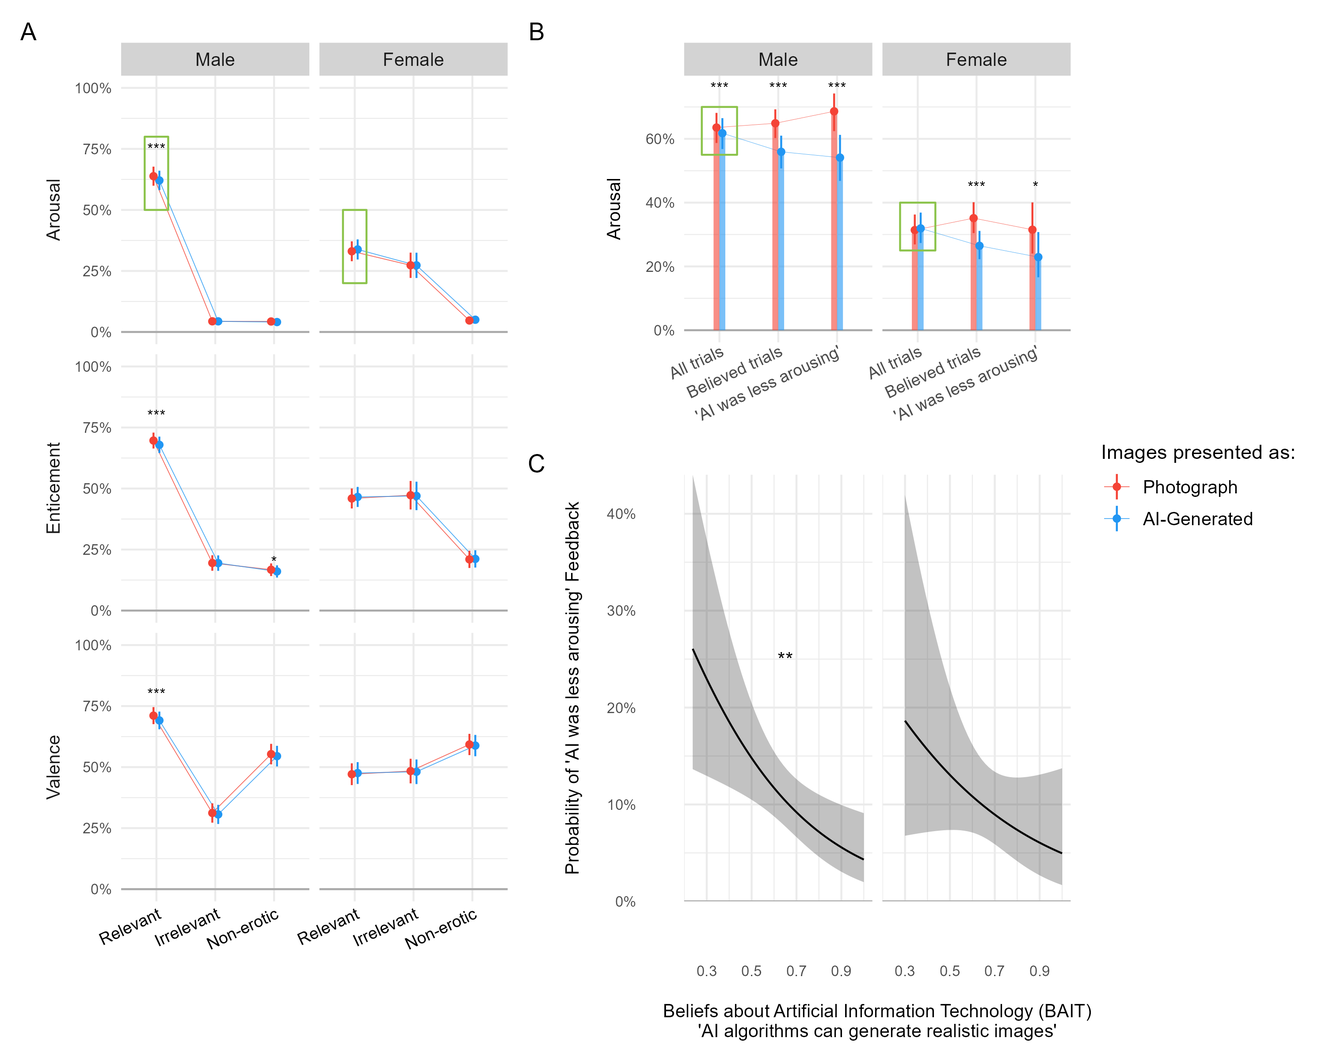
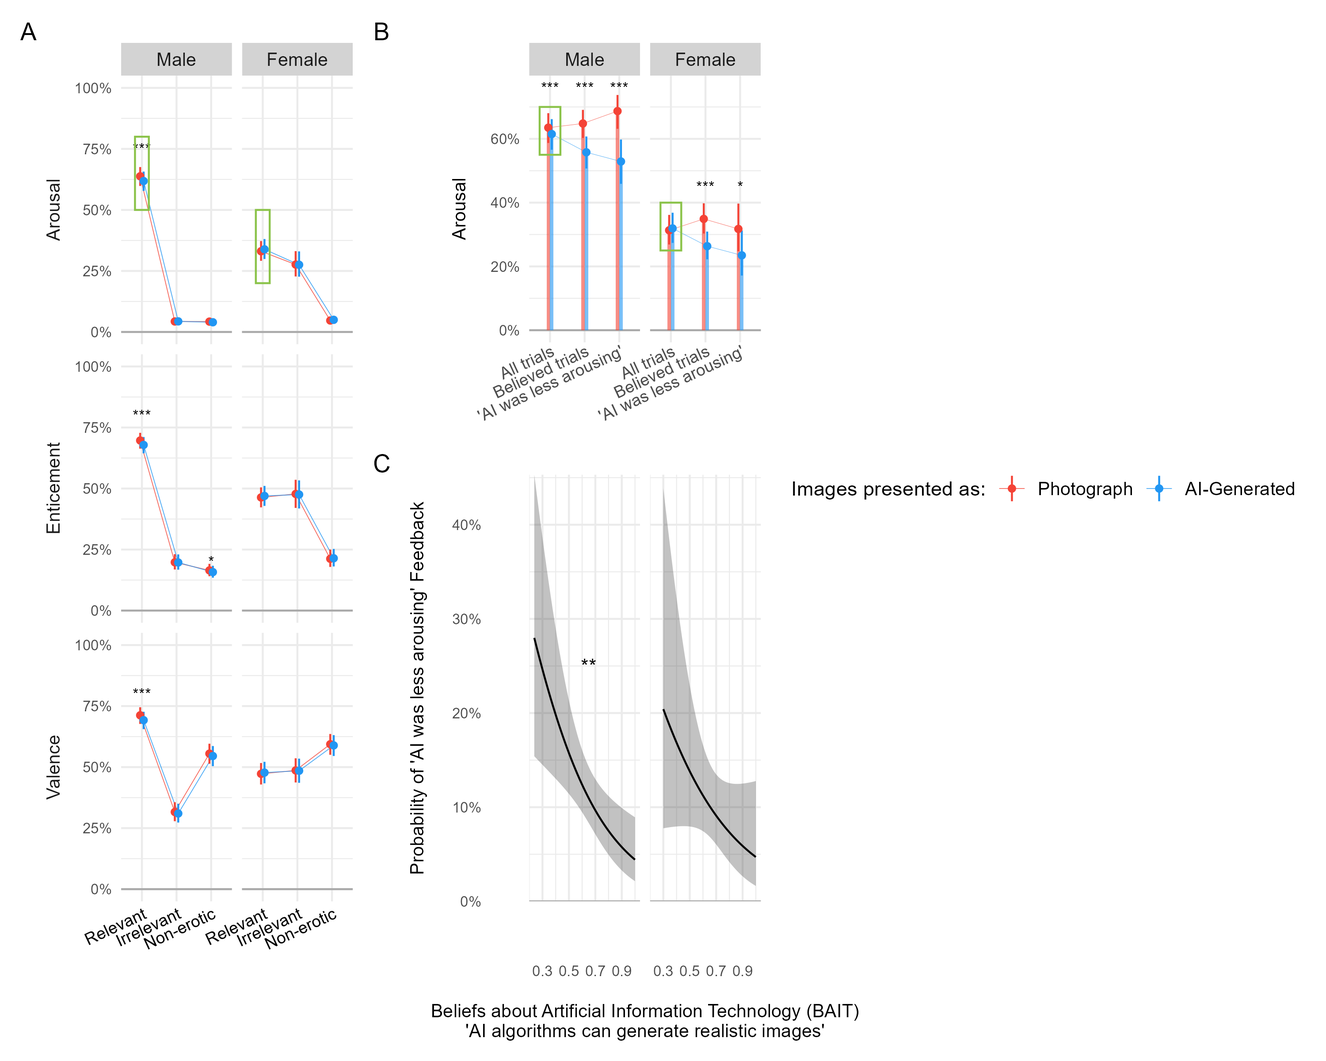
minor

diff --git a/study2/analysis/2_emotion.html b/study2/analysis/2_emotion.html
@@ -4340,13 +4340,13 @@ The 2 principal components accounted for 94.67% of the total variance of the ori
 <details class="code-fold">
 <summary>Code</summary>
 <div class="sourceCode cell-code" id="cb66"><pre class="sourceCode r code-with-copy"><code class="sourceCode r"><span id="cb66-1"><a href="#cb66-1" aria-hidden="true" tabindex="-1"></a>pred1 <span class="ot">&lt;-</span> <span class="fu">rbind</span>(</span>
-<span id="cb66-2"><a href="#cb66-2" aria-hidden="true" tabindex="-1"></a>  marginaleffects<span class="sc">::</span><span class="fu">avg_predictions</span>(m_arousal, <span class="at">by=</span><span class="fu">c</span>(<span class="st">"Gender"</span>, <span class="st">"StimuliType"</span>, <span class="st">"Condition"</span>), <span class="at">newdata =</span> <span class="st">"mean"</span>, <span class="at">re.form=</span><span class="cn">NA</span>) <span class="sc">|&gt;</span></span>
+<span id="cb66-2"><a href="#cb66-2" aria-hidden="true" tabindex="-1"></a>  modelbased<span class="sc">::</span><span class="fu">estimate_means</span>(m_arousal, <span class="at">by=</span><span class="fu">c</span>(<span class="st">"Gender"</span>, <span class="st">"StimuliType"</span>, <span class="st">"Condition"</span>), <span class="at">backend =</span> <span class="st">"emmeans"</span>) <span class="sc">|&gt;</span></span>
 <span id="cb66-3"><a href="#cb66-3" aria-hidden="true" tabindex="-1"></a>  <span class="fu">as.data.frame</span>() <span class="sc">|&gt;</span> </span>
 <span id="cb66-4"><a href="#cb66-4" aria-hidden="true" tabindex="-1"></a>  <span class="fu">mutate</span>(<span class="at">Outcome=</span><span class="st">"Arousal"</span>),</span>
-<span id="cb66-5"><a href="#cb66-5" aria-hidden="true" tabindex="-1"></a>  marginaleffects<span class="sc">::</span><span class="fu">avg_predictions</span>(m_enticement, <span class="at">by=</span><span class="fu">c</span>(<span class="st">"Gender"</span>,<span class="st">"StimuliType"</span>,  <span class="st">"Condition"</span>), <span class="at">newdata =</span> <span class="st">"mean"</span>, <span class="at">re.form=</span><span class="cn">NA</span>) <span class="sc">|&gt;</span></span>
+<span id="cb66-5"><a href="#cb66-5" aria-hidden="true" tabindex="-1"></a>  modelbased<span class="sc">::</span><span class="fu">estimate_means</span>(m_enticement, <span class="at">by=</span><span class="fu">c</span>(<span class="st">"Gender"</span>,<span class="st">"StimuliType"</span>,  <span class="st">"Condition"</span>), <span class="at">backend =</span> <span class="st">"emmeans"</span>) <span class="sc">|&gt;</span></span>
 <span id="cb66-6"><a href="#cb66-6" aria-hidden="true" tabindex="-1"></a>  <span class="fu">as.data.frame</span>() <span class="sc">|&gt;</span> </span>
 <span id="cb66-7"><a href="#cb66-7" aria-hidden="true" tabindex="-1"></a>  <span class="fu">mutate</span>(<span class="at">Outcome=</span><span class="st">"Enticement"</span>),</span>
-<span id="cb66-8"><a href="#cb66-8" aria-hidden="true" tabindex="-1"></a>  marginaleffects<span class="sc">::</span><span class="fu">avg_predictions</span>(m_valence, <span class="at">by=</span><span class="fu">c</span>(<span class="st">"Gender"</span>, <span class="st">"StimuliType"</span>, <span class="st">"Condition"</span>), <span class="at">newdata =</span> <span class="st">"mean"</span>, <span class="at">re.form=</span><span class="cn">NA</span>) <span class="sc">|&gt;</span></span>
+<span id="cb66-8"><a href="#cb66-8" aria-hidden="true" tabindex="-1"></a>  modelbased<span class="sc">::</span><span class="fu">estimate_means</span>(m_valence, <span class="at">by=</span><span class="fu">c</span>(<span class="st">"Gender"</span>, <span class="st">"StimuliType"</span>, <span class="st">"Condition"</span>), <span class="at">backend =</span> <span class="st">"emmeans"</span>) <span class="sc">|&gt;</span></span>
 <span id="cb66-9"><a href="#cb66-9" aria-hidden="true" tabindex="-1"></a>  <span class="fu">as.data.frame</span>() <span class="sc">|&gt;</span> </span>
 <span id="cb66-10"><a href="#cb66-10" aria-hidden="true" tabindex="-1"></a>  <span class="fu">mutate</span>(<span class="at">Outcome=</span><span class="st">"Valence"</span>)</span>
 <span id="cb66-11"><a href="#cb66-11" aria-hidden="true" tabindex="-1"></a>)</span>
@@ -4358,43 +4358,48 @@ The 2 principal components accounted for 94.67% of the total variance of the ori
 <span id="cb66-17"><a href="#cb66-17" aria-hidden="true" tabindex="-1"></a><span class="co">#                     x=c(1.5, 1.5, 1.5, 1.5, 1.5, 1.5), </span></span>
 <span id="cb66-18"><a href="#cb66-18" aria-hidden="true" tabindex="-1"></a><span class="co">#                     y = c(0.53, 0.40, 0.6, 0.51, 0.62, 0.58))</span></span>
 <span id="cb66-19"><a href="#cb66-19" aria-hidden="true" tabindex="-1"></a></span>
-<span id="cb66-20"><a href="#cb66-20" aria-hidden="true" tabindex="-1"></a>stars1b <span class="ot">&lt;-</span> <span class="fu">data.frame</span>(<span class="at">label=</span><span class="fu">c</span>(<span class="st">"*"</span>,<span class="st">"**"</span>, <span class="st">"*"</span>,<span class="st">"*"</span>),</span>
-<span id="cb66-21"><a href="#cb66-21" aria-hidden="true" tabindex="-1"></a>                    <span class="at">Gender=</span><span class="fu">fct_relevel</span>(<span class="fu">c</span>(<span class="st">"Male"</span>, <span class="st">"Male"</span>, <span class="st">"Male"</span>,<span class="st">"Male"</span>), <span class="st">"Male"</span>),</span>
-<span id="cb66-22"><a href="#cb66-22" aria-hidden="true" tabindex="-1"></a>                    <span class="at">Outcome=</span><span class="fu">c</span>(<span class="st">"Arousal"</span>, <span class="st">"Enticement"</span>, <span class="st">"Enticement"</span>,<span class="st">"Valence"</span>),</span>
-<span id="cb66-23"><a href="#cb66-23" aria-hidden="true" tabindex="-1"></a>                    <span class="at">x=</span><span class="fu">c</span>(<span class="dv">1</span>, <span class="dv">1</span>, <span class="dv">2</span>, <span class="dv">1</span>),</span>
-<span id="cb66-24"><a href="#cb66-24" aria-hidden="true" tabindex="-1"></a>                    <span class="at">y=</span><span class="fu">c</span>(<span class="fl">0.60</span>, <span class="fl">0.65</span>, <span class="fl">0.56</span>, <span class="fl">0.68</span>))</span>
+<span id="cb66-20"><a href="#cb66-20" aria-hidden="true" tabindex="-1"></a>stars1b <span class="ot">&lt;-</span> <span class="fu">data.frame</span>(<span class="at">label=</span><span class="fu">c</span>(<span class="st">"*"</span>),</span>
+<span id="cb66-21"><a href="#cb66-21" aria-hidden="true" tabindex="-1"></a>                    <span class="at">Gender=</span><span class="fu">fct_relevel</span>(<span class="fu">c</span>(<span class="st">"Male"</span>), <span class="st">"Male"</span>),</span>
+<span id="cb66-22"><a href="#cb66-22" aria-hidden="true" tabindex="-1"></a>                    <span class="at">Outcome=</span><span class="fu">c</span>(<span class="st">"Arousal"</span>),</span>
+<span id="cb66-23"><a href="#cb66-23" aria-hidden="true" tabindex="-1"></a>                    <span class="at">x=</span><span class="dv">1</span>,</span>
+<span id="cb66-24"><a href="#cb66-24" aria-hidden="true" tabindex="-1"></a>                    <span class="at">y=</span><span class="fl">0.60</span>)</span>
 <span id="cb66-25"><a href="#cb66-25" aria-hidden="true" tabindex="-1"></a></span>
-<span id="cb66-26"><a href="#cb66-26" aria-hidden="true" tabindex="-1"></a></span>
-<span id="cb66-27"><a href="#cb66-27" aria-hidden="true" tabindex="-1"></a>p1 <span class="ot">&lt;-</span> pred1 <span class="sc">|&gt;</span></span>
-<span id="cb66-28"><a href="#cb66-28" aria-hidden="true" tabindex="-1"></a>  <span class="fu">mutate</span>(<span class="at">Gender =</span> <span class="fu">fct_relevel</span>(Gender, <span class="st">"Male"</span>, <span class="st">"Female"</span>)) <span class="sc">|&gt;</span> </span>
-<span id="cb66-29"><a href="#cb66-29" aria-hidden="true" tabindex="-1"></a>  <span class="fu">ggplot</span>(<span class="fu">aes</span>(<span class="at">x=</span>StimuliType, <span class="at">y=</span>estimate)) <span class="sc">+</span></span>
-<span id="cb66-30"><a href="#cb66-30" aria-hidden="true" tabindex="-1"></a>  <span class="fu">geom_hline</span>(<span class="at">yintercept=</span><span class="dv">0</span>, <span class="at">color=</span><span class="st">"darkgrey"</span>) <span class="sc">+</span></span>
-<span id="cb66-31"><a href="#cb66-31" aria-hidden="true" tabindex="-1"></a>  <span class="fu">geom_line</span>(<span class="fu">aes</span>(<span class="at">group=</span>Condition, <span class="at">color=</span>Condition), <span class="at">position =</span> <span class="fu">position_dodge</span>(<span class="at">width=</span><span class="fl">0.2</span>), <span class="at">alpha=</span><span class="fl">0.8</span>, <span class="at">linewidth=</span><span class="fl">0.4</span>, <span class="at">key_glyph =</span> <span class="st">"path"</span>) <span class="sc">+</span></span>
-<span id="cb66-32"><a href="#cb66-32" aria-hidden="true" tabindex="-1"></a>  <span class="fu">geom_pointrange</span>(<span class="fu">aes</span>(<span class="at">ymin =</span> conf.low, <span class="at">ymax=</span>conf.high, <span class="at">color=</span>Condition), <span class="at">position =</span> <span class="fu">position_dodge</span>(<span class="at">width=</span><span class="fl">0.2</span>), <span class="at">size=</span><span class="fl">0.3</span>) <span class="sc">+</span></span>
-<span id="cb66-33"><a href="#cb66-33" aria-hidden="true" tabindex="-1"></a>  <span class="co"># geom_text(data=stars1a, aes(x=x, y=y, label=label, color=Condition), hjust=0.5, key_glyph = "blank", size=3) +</span></span>
-<span id="cb66-34"><a href="#cb66-34" aria-hidden="true" tabindex="-1"></a>  <span class="fu">geom_text</span>(<span class="at">data=</span>stars1b, <span class="fu">aes</span>(<span class="at">x=</span>x, <span class="at">y=</span>y, <span class="at">label=</span>label), <span class="at">hjust=</span><span class="fl">0.5</span>, <span class="at">color=</span><span class="st">"#424242"</span>, <span class="at">size=</span><span class="dv">3</span>) <span class="sc">+</span></span>
-<span id="cb66-35"><a href="#cb66-35" aria-hidden="true" tabindex="-1"></a>  <span class="co"># geom_rect(data=data.frame(Type="All trials", estimate=0.1, Gender=as.factor("Male"), Outcome="Arousal"),</span></span>
-<span id="cb66-36"><a href="#cb66-36" aria-hidden="true" tabindex="-1"></a>  <span class="co">#           aes(xmin=0.8, xmax=1.2, ymin=0.35, ymax=0.6), color="#8BC34A", alpha=0) +</span></span>
-<span id="cb66-37"><a href="#cb66-37" aria-hidden="true" tabindex="-1"></a>  <span class="co"># geom_rect(data=data.frame(Type="All trials", estimate=0.1, Gender=as.factor("Female"), Outcome="Arousal"),</span></span>
-<span id="cb66-38"><a href="#cb66-38" aria-hidden="true" tabindex="-1"></a>  <span class="co">#           aes(xmin=0.8, xmax=1.2, ymin=0.3, ymax=0.5), color="#8BC34A", alpha=0) +</span></span>
-<span id="cb66-39"><a href="#cb66-39" aria-hidden="true" tabindex="-1"></a>  <span class="fu">facet_grid</span>(Outcome<span class="sc">~</span>Gender, <span class="at">switch=</span><span class="st">"y"</span>, <span class="at">scales =</span><span class="st">"free"</span>) <span class="sc">+</span></span>
-<span id="cb66-40"><a href="#cb66-40" aria-hidden="true" tabindex="-1"></a>  <span class="fu">scale_y_continuous</span>(<span class="at">limits=</span><span class="fu">c</span>(<span class="dv">0</span>, <span class="dv">1</span>), <span class="at">labels=</span>scales<span class="sc">::</span>percent) <span class="sc">+</span></span>
-<span id="cb66-41"><a href="#cb66-41" aria-hidden="true" tabindex="-1"></a>  <span class="fu">scale_color_manual</span>(<span class="at">values=</span><span class="fu">c</span>(<span class="st">"AI-Generated"</span><span class="ot">=</span><span class="st">"#2196F3"</span>, <span class="st">"Photograph"</span><span class="ot">=</span><span class="st">"#F44336"</span>)) <span class="sc">+</span></span>
-<span id="cb66-42"><a href="#cb66-42" aria-hidden="true" tabindex="-1"></a>  <span class="fu">theme_bw</span>() <span class="sc">+</span></span>
-<span id="cb66-43"><a href="#cb66-43" aria-hidden="true" tabindex="-1"></a>  <span class="fu">theme</span>(<span class="at">axis.title.y =</span> <span class="fu">element_blank</span>(),</span>
-<span id="cb66-44"><a href="#cb66-44" aria-hidden="true" tabindex="-1"></a>        <span class="at">axis.title.x =</span> <span class="fu">element_blank</span>(),</span>
-<span id="cb66-45"><a href="#cb66-45" aria-hidden="true" tabindex="-1"></a>        <span class="at">axis.text.y =</span> <span class="fu">element_text</span>(<span class="at">size =</span> <span class="dv">8</span>),</span>
-<span id="cb66-46"><a href="#cb66-46" aria-hidden="true" tabindex="-1"></a>        <span class="at">strip.placement =</span> <span class="st">"outside"</span>,</span>
-<span id="cb66-47"><a href="#cb66-47" aria-hidden="true" tabindex="-1"></a>        <span class="at">strip.background.x =</span> <span class="fu">element_rect</span>(<span class="at">fill=</span><span class="fu">c</span>(<span class="st">"lightgrey"</span>), <span class="at">color=</span><span class="cn">NA</span>),</span>
-<span id="cb66-48"><a href="#cb66-48" aria-hidden="true" tabindex="-1"></a>        <span class="at">strip.text.x =</span> <span class="fu">element_text</span>(<span class="at">size =</span> <span class="dv">10</span>),</span>
-<span id="cb66-49"><a href="#cb66-49" aria-hidden="true" tabindex="-1"></a>        <span class="at">strip.text.y =</span> <span class="fu">element_text</span>(<span class="at">size =</span> <span class="dv">10</span>),</span>
-<span id="cb66-50"><a href="#cb66-50" aria-hidden="true" tabindex="-1"></a>        <span class="at">axis.text.x =</span> <span class="fu">element_text</span>(<span class="at">angle=</span><span class="dv">25</span>, <span class="at">hjust=</span><span class="dv">1</span>, <span class="at">vjust=</span><span class="fl">1.1</span>, <span class="at">size=</span><span class="dv">9</span>, <span class="at">color=</span><span class="st">"black"</span>),</span>
-<span id="cb66-51"><a href="#cb66-51" aria-hidden="true" tabindex="-1"></a>        <span class="at">legend.text =</span> <span class="fu">element_text</span>(<span class="at">size =</span> <span class="dv">10</span>),</span>
-<span id="cb66-52"><a href="#cb66-52" aria-hidden="true" tabindex="-1"></a>        <span class="at">legend.position =</span> ) <span class="sc">+</span></span>
-<span id="cb66-53"><a href="#cb66-53" aria-hidden="true" tabindex="-1"></a>  <span class="fu">labs</span>(<span class="at">color=</span><span class="st">"Images presented as:"</span>)</span>
-<span id="cb66-54"><a href="#cb66-54" aria-hidden="true" tabindex="-1"></a></span>
-<span id="cb66-55"><a href="#cb66-55" aria-hidden="true" tabindex="-1"></a></span>
-<span id="cb66-56"><a href="#cb66-56" aria-hidden="true" tabindex="-1"></a>p1</span></code><button title="Copy to Clipboard" class="code-copy-button"><i class="bi"></i></button></pre></div>
+<span id="cb66-26"><a href="#cb66-26" aria-hidden="true" tabindex="-1"></a>stars1b <span class="ot">&lt;-</span> <span class="fu">data.frame</span>(<span class="at">label=</span><span class="fu">c</span>(<span class="st">"*"</span>,<span class="st">"**"</span>, <span class="st">"*"</span>,<span class="st">"*"</span>),</span>
+<span id="cb66-27"><a href="#cb66-27" aria-hidden="true" tabindex="-1"></a>                    <span class="at">Gender=</span><span class="fu">fct_relevel</span>(<span class="fu">c</span>(<span class="st">"Male"</span>, <span class="st">"Male"</span>, <span class="st">"Male"</span>,<span class="st">"Male"</span>), <span class="st">"Male"</span>),</span>
+<span id="cb66-28"><a href="#cb66-28" aria-hidden="true" tabindex="-1"></a>                    <span class="at">Outcome=</span><span class="fu">c</span>(<span class="st">"Arousal"</span>, <span class="st">"Enticement"</span>, <span class="st">"Enticement"</span>,<span class="st">"Valence"</span>),</span>
+<span id="cb66-29"><a href="#cb66-29" aria-hidden="true" tabindex="-1"></a>                    <span class="at">x=</span><span class="fu">c</span>(<span class="dv">1</span>, <span class="dv">1</span>, <span class="dv">2</span>, <span class="dv">1</span>),</span>
+<span id="cb66-30"><a href="#cb66-30" aria-hidden="true" tabindex="-1"></a>                    <span class="at">y=</span><span class="fu">c</span>(<span class="fl">0.60</span>, <span class="fl">0.65</span>, <span class="fl">0.56</span>, <span class="fl">0.68</span>))</span>
+<span id="cb66-31"><a href="#cb66-31" aria-hidden="true" tabindex="-1"></a></span>
+<span id="cb66-32"><a href="#cb66-32" aria-hidden="true" tabindex="-1"></a></span>
+<span id="cb66-33"><a href="#cb66-33" aria-hidden="true" tabindex="-1"></a>p1 <span class="ot">&lt;-</span> pred1 <span class="sc">|&gt;</span></span>
+<span id="cb66-34"><a href="#cb66-34" aria-hidden="true" tabindex="-1"></a>  <span class="fu">mutate</span>(<span class="at">Gender =</span> <span class="fu">fct_relevel</span>(Gender, <span class="st">"Male"</span>, <span class="st">"Female"</span>)) <span class="sc">|&gt;</span> </span>
+<span id="cb66-35"><a href="#cb66-35" aria-hidden="true" tabindex="-1"></a>  <span class="fu">ggplot</span>(<span class="fu">aes</span>(<span class="at">x=</span>StimuliType, <span class="at">y=</span>Proportion)) <span class="sc">+</span></span>
+<span id="cb66-36"><a href="#cb66-36" aria-hidden="true" tabindex="-1"></a>  <span class="fu">geom_hline</span>(<span class="at">yintercept=</span><span class="dv">0</span>, <span class="at">color=</span><span class="st">"darkgrey"</span>) <span class="sc">+</span></span>
+<span id="cb66-37"><a href="#cb66-37" aria-hidden="true" tabindex="-1"></a>  <span class="fu">geom_line</span>(<span class="fu">aes</span>(<span class="at">group=</span>Condition, <span class="at">color=</span>Condition), <span class="at">position =</span> <span class="fu">position_dodge</span>(<span class="at">width=</span><span class="fl">0.2</span>), <span class="at">alpha=</span><span class="fl">0.8</span>, <span class="at">linewidth=</span><span class="fl">0.4</span>, <span class="at">key_glyph =</span> <span class="st">"path"</span>) <span class="sc">+</span></span>
+<span id="cb66-38"><a href="#cb66-38" aria-hidden="true" tabindex="-1"></a>  <span class="fu">geom_pointrange</span>(<span class="fu">aes</span>(<span class="at">ymin =</span> CI_low, <span class="at">ymax=</span>CI_high, <span class="at">color=</span>Condition), <span class="at">position =</span> <span class="fu">position_dodge</span>(<span class="at">width=</span><span class="fl">0.2</span>), <span class="at">size=</span><span class="fl">0.3</span>) <span class="sc">+</span></span>
+<span id="cb66-39"><a href="#cb66-39" aria-hidden="true" tabindex="-1"></a>  <span class="fu">geom_text</span>(<span class="at">data=</span>stars1b, <span class="fu">aes</span>(<span class="at">x=</span>x, <span class="at">y=</span>y, <span class="at">label=</span>label), <span class="at">hjust=</span><span class="fl">0.5</span>, <span class="at">color=</span><span class="st">"#424242"</span>, <span class="at">size=</span><span class="dv">6</span>) <span class="sc">+</span></span>
+<span id="cb66-40"><a href="#cb66-40" aria-hidden="true" tabindex="-1"></a>  <span class="fu">geom_rect</span>(<span class="at">data=</span><span class="fu">data.frame</span>(<span class="at">StimuliType =</span> <span class="st">"Individual"</span>, <span class="at">Proportion=</span><span class="fl">0.1</span>, <span class="at">Gender=</span><span class="fu">as.factor</span>(<span class="st">"Male"</span>), <span class="at">Outcome=</span><span class="st">"Arousal"</span>),</span>
+<span id="cb66-41"><a href="#cb66-41" aria-hidden="true" tabindex="-1"></a>            <span class="fu">aes</span>(<span class="at">xmin=</span><span class="fl">0.8</span>, <span class="at">xmax=</span><span class="fl">1.2</span>, <span class="at">ymin=</span><span class="fl">0.35</span>, <span class="at">ymax=</span><span class="fl">0.7</span>), <span class="at">color=</span><span class="st">"#8BC34A"</span>, <span class="at">alpha=</span><span class="dv">0</span>, ) <span class="sc">+</span></span>
+<span id="cb66-42"><a href="#cb66-42" aria-hidden="true" tabindex="-1"></a>  <span class="fu">geom_rect</span>(<span class="at">data=</span><span class="fu">data.frame</span>(<span class="at">StimuliType =</span> <span class="st">"Individual"</span>,<span class="at">Proportion=</span><span class="fl">0.1</span>, <span class="at">Gender=</span><span class="fu">as.factor</span>(<span class="st">"Female"</span>), <span class="at">Outcome=</span><span class="st">"Arousal"</span>),</span>
+<span id="cb66-43"><a href="#cb66-43" aria-hidden="true" tabindex="-1"></a>            <span class="fu">aes</span>(<span class="at">xmin=</span><span class="fl">0.8</span>, <span class="at">xmax=</span><span class="fl">1.2</span>, <span class="at">ymin=</span><span class="fl">0.2</span>, <span class="at">ymax=</span><span class="fl">0.5</span>), <span class="at">color=</span><span class="st">"#8BC34A"</span>, <span class="at">alpha=</span><span class="dv">0</span>) <span class="sc">+</span></span>
+<span id="cb66-44"><a href="#cb66-44" aria-hidden="true" tabindex="-1"></a>  <span class="fu">facet_grid</span>(Outcome<span class="sc">~</span>Gender, <span class="at">switch=</span><span class="st">"y"</span>, <span class="at">scales =</span><span class="st">"free"</span>) <span class="sc">+</span></span>
+<span id="cb66-45"><a href="#cb66-45" aria-hidden="true" tabindex="-1"></a>  <span class="fu">scale_y_continuous</span>(<span class="at">limits=</span><span class="fu">c</span>(<span class="dv">0</span>, <span class="dv">1</span>), <span class="at">labels=</span>scales<span class="sc">::</span>percent) <span class="sc">+</span></span>
+<span id="cb66-46"><a href="#cb66-46" aria-hidden="true" tabindex="-1"></a>  <span class="fu">scale_color_manual</span>(<span class="at">values=</span><span class="fu">c</span>(<span class="st">"AI-Generated"</span><span class="ot">=</span><span class="st">"#2196F3"</span>, <span class="st">"Photograph"</span><span class="ot">=</span><span class="st">"#F44336"</span>)) <span class="sc">+</span></span>
+<span id="cb66-47"><a href="#cb66-47" aria-hidden="true" tabindex="-1"></a>  <span class="fu">theme_minimal</span>() <span class="sc">+</span></span>
+<span id="cb66-48"><a href="#cb66-48" aria-hidden="true" tabindex="-1"></a>  <span class="fu">theme</span>(<span class="at">axis.title.y =</span> <span class="fu">element_blank</span>(),</span>
+<span id="cb66-49"><a href="#cb66-49" aria-hidden="true" tabindex="-1"></a>        <span class="at">axis.title.x =</span> <span class="fu">element_blank</span>(),</span>
+<span id="cb66-50"><a href="#cb66-50" aria-hidden="true" tabindex="-1"></a>        <span class="at">axis.text.y =</span> <span class="fu">element_text</span>(<span class="at">size =</span> <span class="dv">8</span>),</span>
+<span id="cb66-51"><a href="#cb66-51" aria-hidden="true" tabindex="-1"></a>        <span class="at">strip.placement =</span> <span class="st">"outside"</span>,</span>
+<span id="cb66-52"><a href="#cb66-52" aria-hidden="true" tabindex="-1"></a>        <span class="at">strip.background.x =</span> <span class="fu">element_rect</span>(<span class="at">fill=</span><span class="fu">c</span>(<span class="st">"lightgrey"</span>), <span class="at">color=</span><span class="cn">NA</span>),</span>
+<span id="cb66-53"><a href="#cb66-53" aria-hidden="true" tabindex="-1"></a>        <span class="at">strip.text.x =</span> <span class="fu">element_text</span>(<span class="at">size =</span> <span class="dv">10</span>),</span>
+<span id="cb66-54"><a href="#cb66-54" aria-hidden="true" tabindex="-1"></a>        <span class="at">strip.text.y =</span> <span class="fu">element_text</span>(<span class="at">size =</span> <span class="dv">10</span>),</span>
+<span id="cb66-55"><a href="#cb66-55" aria-hidden="true" tabindex="-1"></a>        <span class="at">axis.text.x =</span> <span class="fu">element_text</span>(<span class="at">angle=</span><span class="dv">25</span>, <span class="at">hjust=</span><span class="dv">1</span>, <span class="at">vjust=</span><span class="fl">1.1</span>, <span class="at">size=</span><span class="dv">9</span>, <span class="at">color=</span><span class="st">"black"</span>),</span>
+<span id="cb66-56"><a href="#cb66-56" aria-hidden="true" tabindex="-1"></a>        <span class="at">legend.text =</span> <span class="fu">element_text</span>(<span class="at">size =</span> <span class="dv">10</span>),</span>
+<span id="cb66-57"><a href="#cb66-57" aria-hidden="true" tabindex="-1"></a>        <span class="at">legend.position =</span> ) <span class="sc">+</span></span>
+<span id="cb66-58"><a href="#cb66-58" aria-hidden="true" tabindex="-1"></a>  <span class="fu">labs</span>(<span class="at">color=</span><span class="st">"Images presented as:"</span>)</span>
+<span id="cb66-59"><a href="#cb66-59" aria-hidden="true" tabindex="-1"></a></span>
+<span id="cb66-60"><a href="#cb66-60" aria-hidden="true" tabindex="-1"></a></span>
+<span id="cb66-61"><a href="#cb66-61" aria-hidden="true" tabindex="-1"></a>p1</span></code><button title="Copy to Clipboard" class="code-copy-button"><i class="bi"></i></button></pre></div>
 </details>
 <div class="cell-output-display">
 <div>
